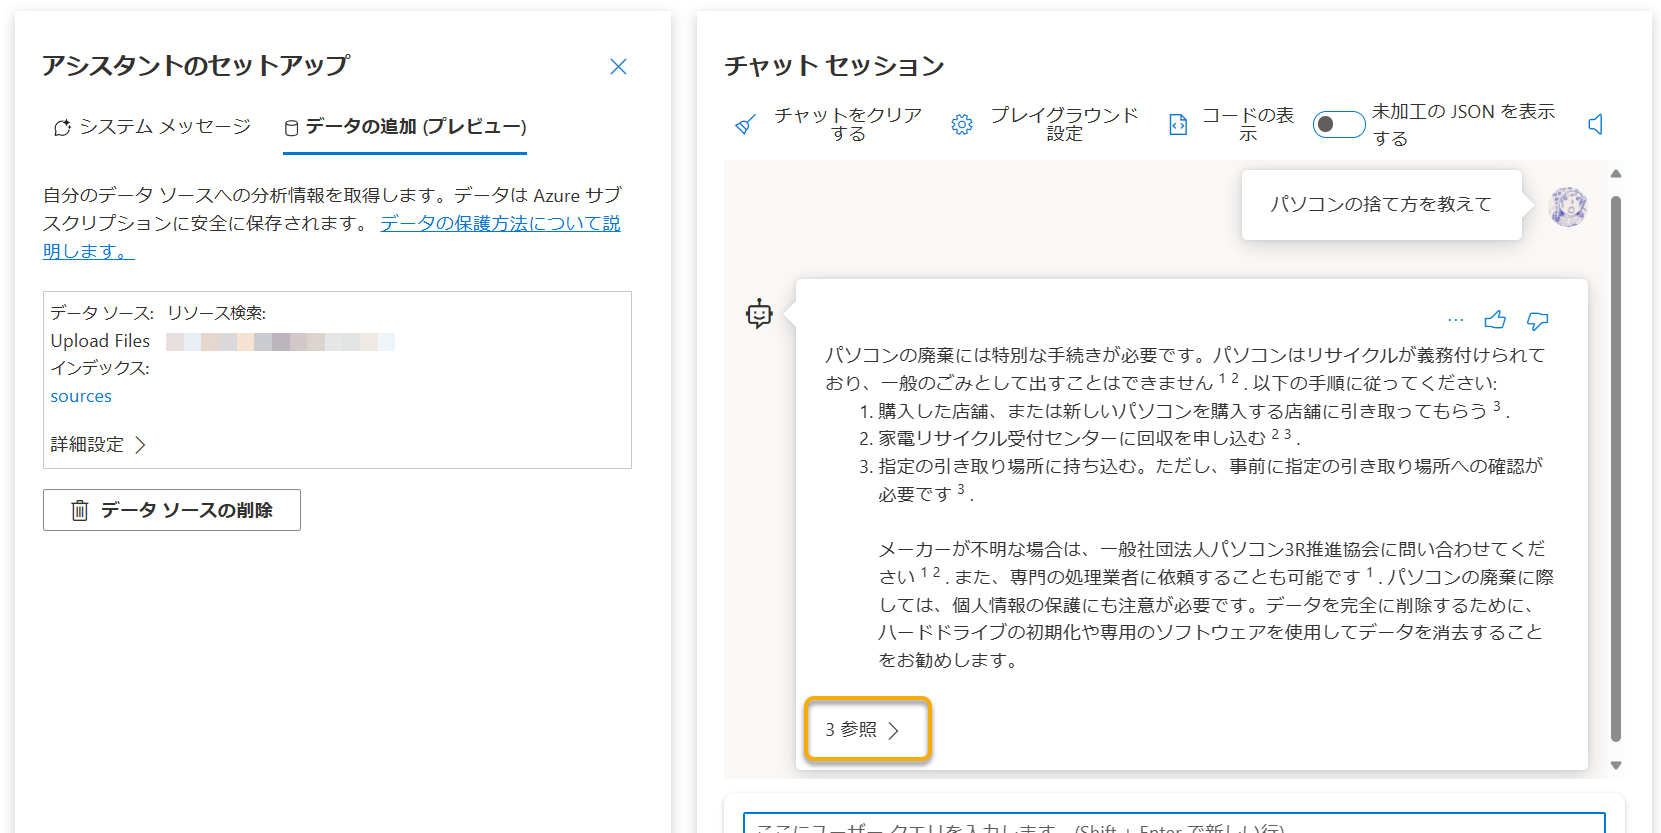
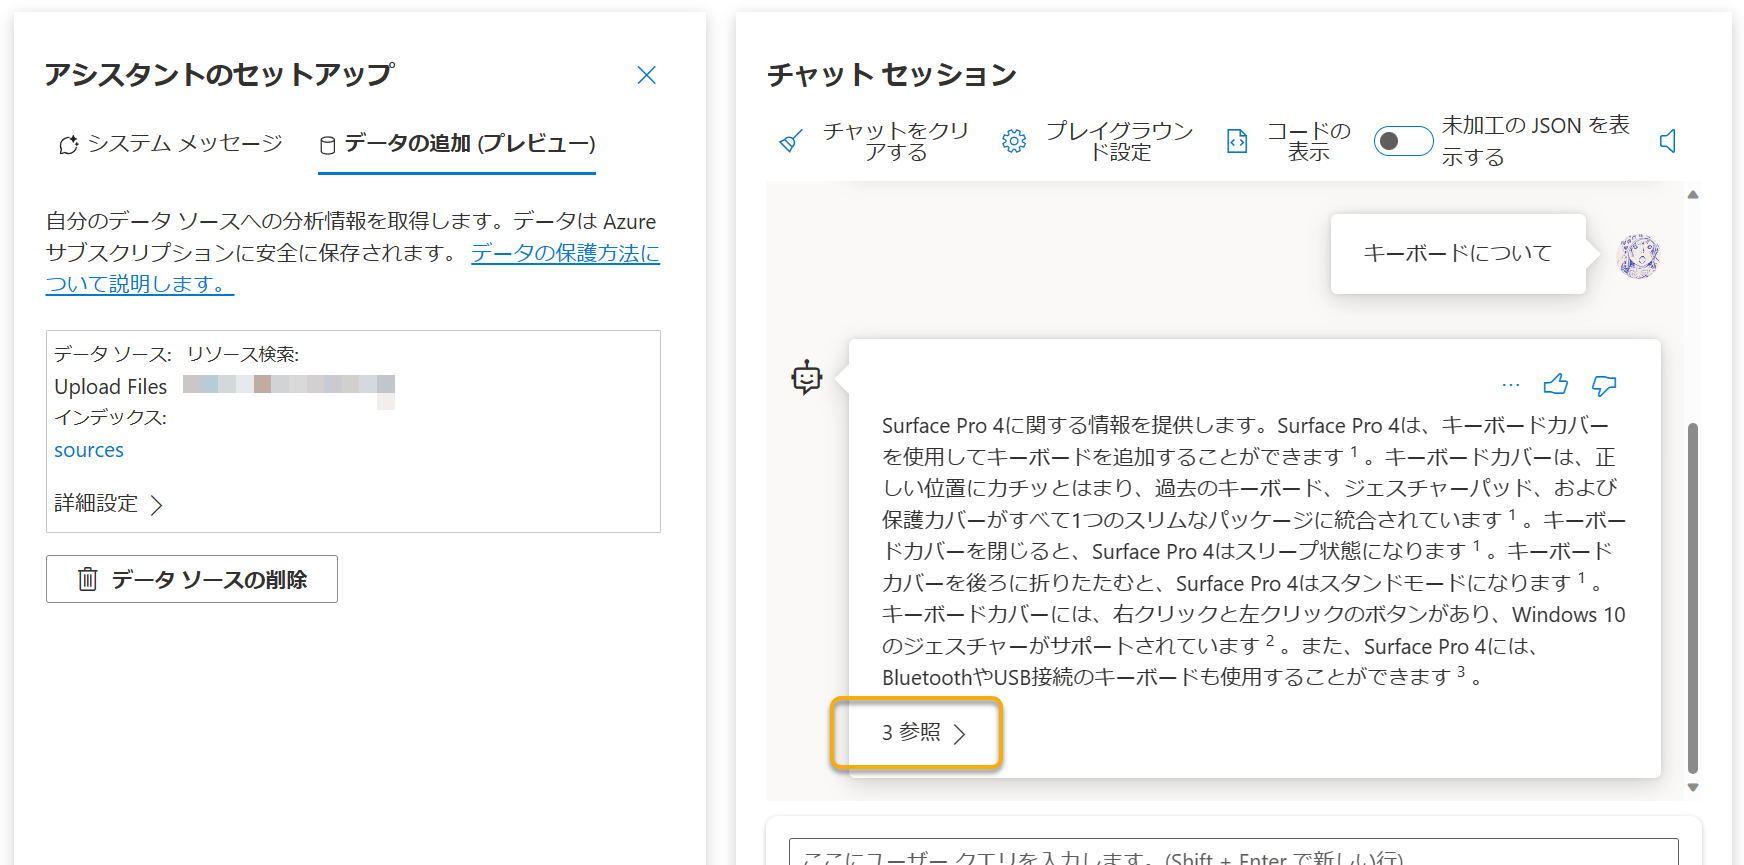
BicepでLLMモデルを選択できるように。利用するPDFについて更新。 (#4)

diff --git a/docs/add-your-data/self-paced-handson.md b/docs/add-your-data/self-paced-handson.md
@@ -106,12 +106,12 @@ ChatGPTのプレイグラウンドでは、「アシスタント セットアッ
 
 入力できたら、「次へ」ボタンを選択して進みます。
 
-「ファイルのアップロード」では、端末の「Downloads（ダウンロード）」にある「2023shigengomihinmoku.pdf」をドラッグ アンド ドロップ（または、「ファイルを参照する」でファイルを選択）し、「ファイルのアップロード」ボタンを選択します。
+「ファイルのアップロード」では、端末の「Downloads（ダウンロード）」にある「surface-pro-4-user-guide_ja-jp.pdf」をドラッグ アンド ドロップ（または、「ファイルを参照する」でファイルを選択）し、「ファイルのアップロード」ボタンを選択します。
 
 <img src="./images/aoai-studio/add-data-source-005.png" alt="追加するファイルをアップロードする" width="640">
 
-**Note:** 品川区の以下のページから「資源・ごみ品目一覧」を利用しています。
-- [資源・ごみ品目一覧｜品川区](https://www.city.shinagawa.tokyo.jp/PC/kankyo/kankyo-gomi/gomi-kateigomi/20191127174730.html)
+**Note:** 以下のPDFを利用しています。
+- [Surface Pro 4 ユーザー ガイド](https://download.microsoft.com/download/2/9/B/29B20383-302C-4517-A006-B0186F04BE28/surface-pro-4-user-guide_ja-jp.pdf)
 
 ファイルのアップロードが終わったら、「次へ」ボタンを選択します。
 
@@ -138,7 +138,7 @@ ChatGPTのプレイグラウンドでは、「アシスタント セットアッ
 
 インジェストが完了したら、チャットセッションで動作を確認してみましょう。
 
-例えば、「パソコンの捨て方を教えて」と入力すると、以下のように返答が得られます。ここに「参照」が引用されていれば、インジェストしたデータから返答されています。
+例えば、「キーボードについて」と入力すると、以下のように返答が得られます。ここに「参照」が引用されていれば、インジェストしたデータから返答されています。
 
 ![データ ソースへの参照が引用されている](./images/aoai-studio/response-with-references.png)
 

diff --git a/docs/add-your-data/instruction.md b/docs/add-your-data/instruction.md
@@ -11,7 +11,7 @@
 - 端末に下記ソフトウェアをインストールする
   - [Postman](https://www.postman.com/downloads/)
 - PDFをダウンロードしておく
-  - [資源・ごみ品目一覧｜品川区](https://www.city.shinagawa.tokyo.jp/PC/kankyo/kankyo-gomi/gomi-kateigomi/20191127174730.html)の「参考：資源・ごみ品目一覧（PDF：360KB）」から「2023shigengomihinmoku.pdf」をダウンロードする
+  - [Surface Pro 4 ユーザー ガイド](https://download.microsoft.com/download/2/9/B/29B20383-302C-4517-A006-B0186F04BE28/surface-pro-4-user-guide_ja-jp.pdf)から「surface-pro-4-user-guide_ja-jp.pdf」をダウンロードする
 
 ## 当日（セッション前）
 
